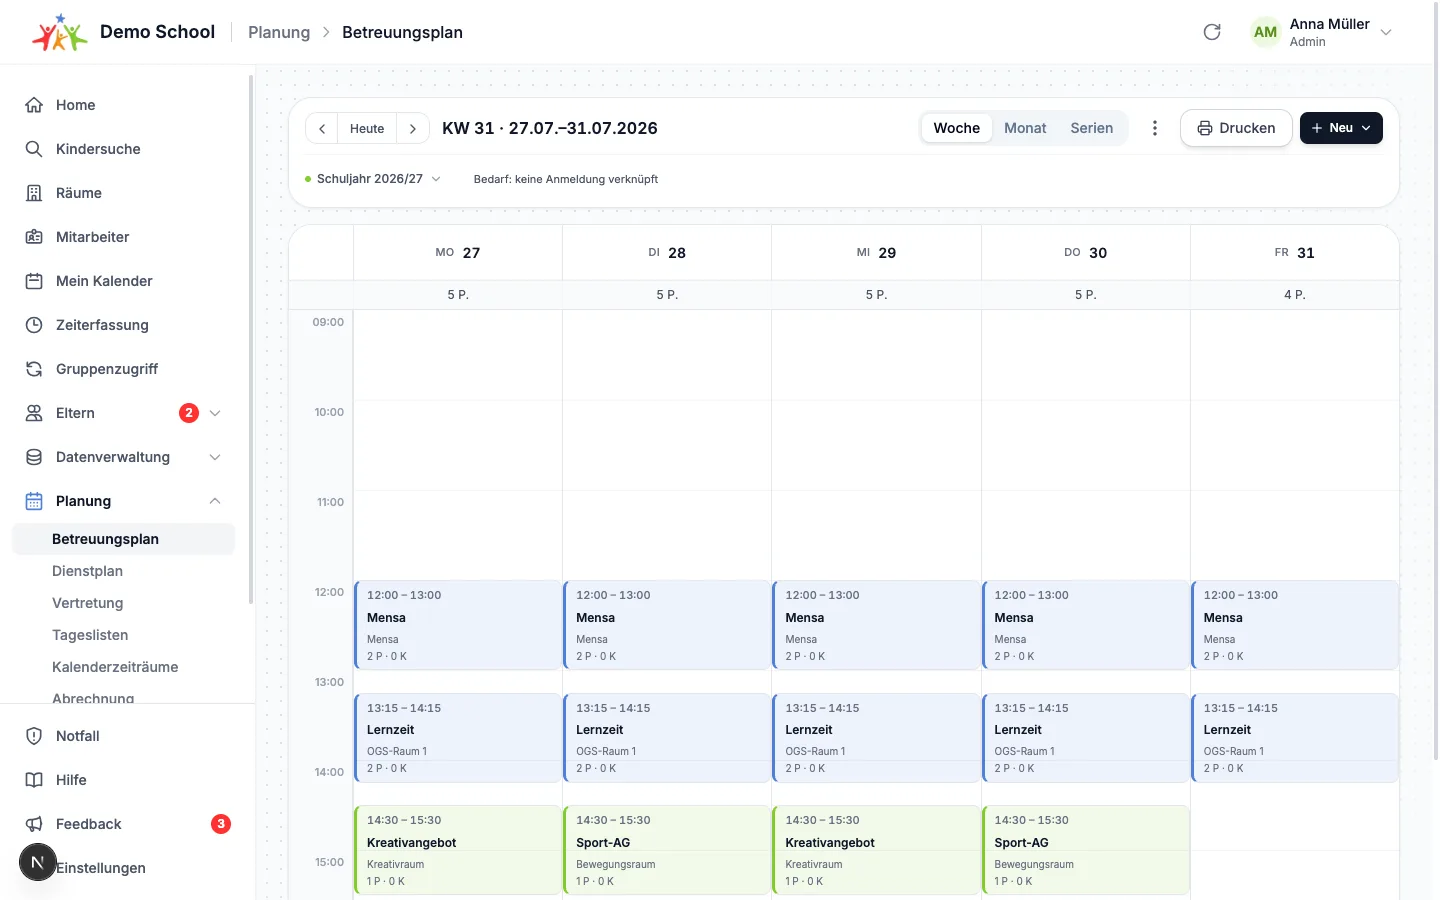
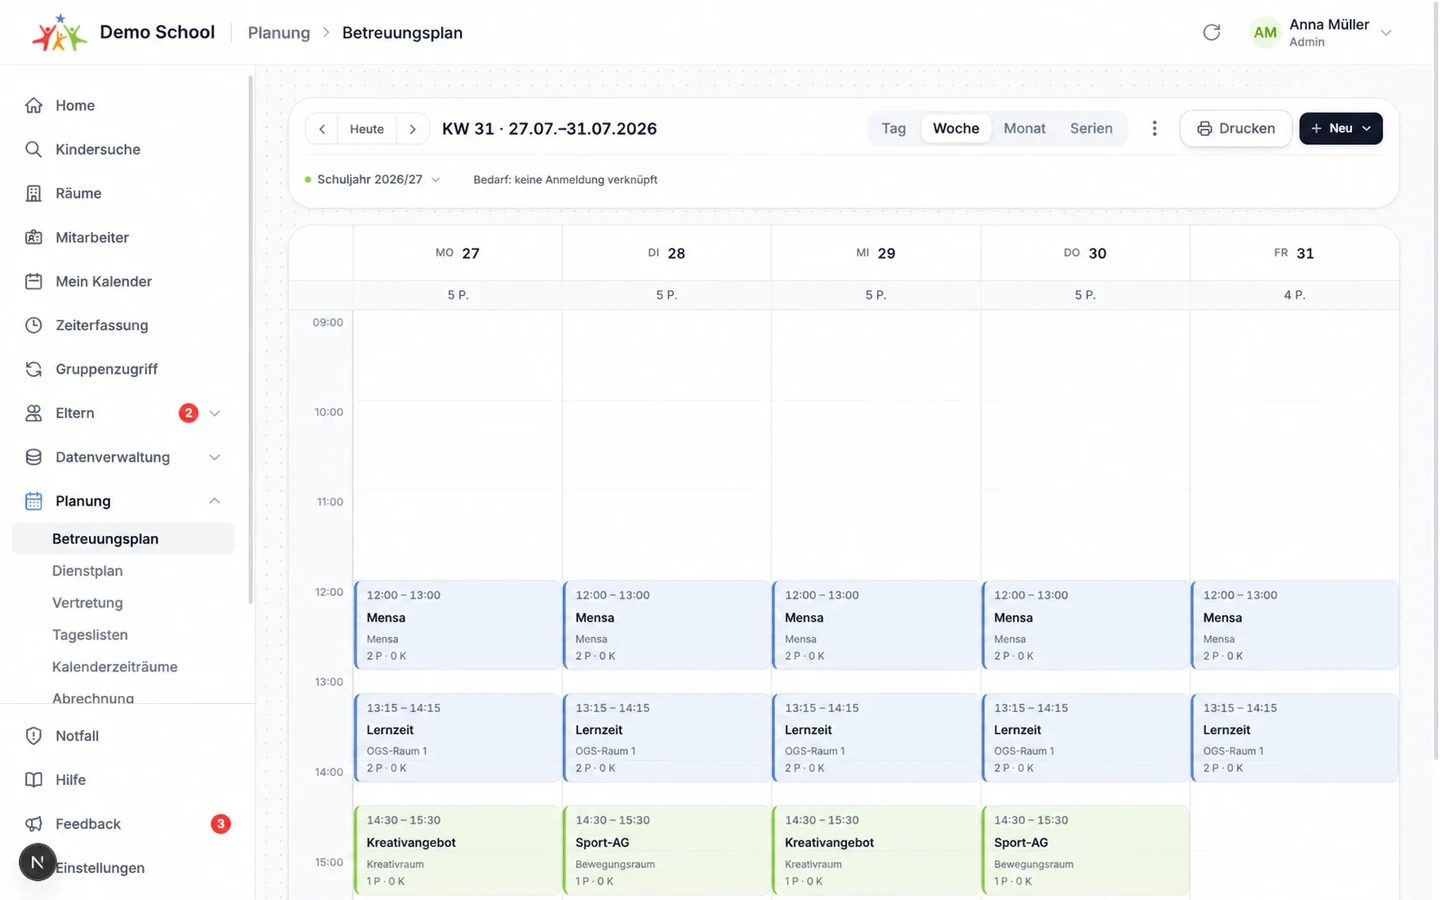
fix(betreuungsplan): keep calendar tab in sync

diff --git a/frontend/src/components/timetable/betreuungsplan-view.test.tsx b/frontend/src/components/timetable/betreuungsplan-view.test.tsx
@@ -280,12 +280,14 @@ vi.mock("~/components/timetable/weekly-calendar-grid", () => ({
     onInstanceClick,
     onSlotClick,
     gapInstanceIds,
+    emptyState,
   }: {
     weekDays: Date[];
     instances: Array<{ id: string; conflictWarnings: unknown[] }>;
     onInstanceClick: (instance: { id: string } | null) => void;
     onSlotClick?: (dateISO: string, hour: number) => void;
     gapInstanceIds?: ReadonlySet<string>;
+    emptyState?: { title: string; description: string };
   }) => (
     <div>
       <span data-testid="grid-week-days">{weekDays.length}</span>
@@ -298,6 +300,12 @@ vi.mock("~/components/timetable/weekly-calendar-grid", () => ({
           0,
         )}
       </span>
+      {emptyState && (
+        <div data-testid="grid-empty-state">
+          <span>{emptyState.title}</span>
+          <span>{emptyState.description}</span>
+        </div>
+      )}
       <button
         type="button"
         onClick={() => onInstanceClick(instances[0] ?? null)}
@@ -671,6 +679,7 @@ function setupSWR({
   phasesState = "ready" as "ready" | "loading" | "error",
   closingDaysLoading = false,
   conflictAcks = [] as string[],
+  instances = [instance],
 }: {
   periods?: Array<typeof period>;
   templates?: TimetableTemplate[];
@@ -684,6 +693,7 @@ function setupSWR({
   phasesState?: "ready" | "loading" | "error";
   closingDaysLoading?: boolean;
   conflictAcks?: string[];
+  instances?: (typeof instance)[];
 } = {}) {
   mockUseSWRAuth.mockImplementation((key: string | null) => {
     if (key === null) return {};
@@ -744,7 +754,7 @@ function setupSWR({
     }
     if (key.startsWith("timetable-")) {
       return {
-        data: { from: "2026-05-04", to: "2026-05-10", instances: [instance] },
+        data: { from: "2026-05-04", to: "2026-05-10", instances },
         isLoading: false,
       };
     }
@@ -1072,6 +1082,30 @@ describe("BetreuungsplanView", () => {
 
     expect(screen.getByTestId("grid-week-days")).toHaveTextContent("1");
     expect(screen.getByText("Mittwoch, 06.05.2026")).toBeVisible();
+    expect(screen.getByTestId("conflicts-period")).toHaveTextContent(
+      "an diesem Tag",
+    );
+  });
+
+  it("formuliert die leeren Tageszustände für Planende in der Sie-Form", () => {
+    setUrl("view=tag&d=2026-05-06");
+    setupSWR({ instances: [] });
+    const { unmount } = render(<BetreuungsplanView />);
+
+    expect(screen.getByTestId("grid-empty-state")).toHaveTextContent(
+      "Planen Sie Angebote als Regeltermin oder legen Sie einen einzelnen Termin an.",
+    );
+    unmount();
+
+    setupSWR({
+      instances: [],
+      periods: [{ ...period, endDate: "2026-05-05" }],
+    });
+    render(<BetreuungsplanView />);
+
+    expect(screen.getByTestId("grid-empty-state")).toHaveTextContent(
+      "Legen Sie zuerst einen aktiven Planungszeitraum an.",
+    );
   });
 
   it("navigiert in der Tagesansicht von Schultag zu Schultag", () => {

diff --git a/frontend/src/app/[tenant]/(protected)/calendar/page.tsx b/frontend/src/app/[tenant]/(protected)/calendar/page.tsx
@@ -1,6 +1,6 @@
 "use client";
 
-import { Suspense, useMemo, useState } from "react";
+import { Suspense, useCallback, useEffect, useMemo, useState } from "react";
 import { useSearchParams } from "next/navigation";
 import type { FormEvent } from "react";
 import { Trash2 } from "lucide-react";
@@ -299,6 +299,8 @@ function hasSchoolPlanParams(params: URLSearchParams | null): boolean {
   return ["d", "view", "block"].some((key) => params?.has(key) === true);
 }
 
+type CalendarTab = "meine" | "schule";
+
 function StaffCalendarPageInner() {
   const searchParams = useSearchParams();
   const toast = useToast();
@@ -309,6 +311,34 @@ function StaffCalendarPageInner() {
   // Admins behalten den vollwertigen Planungsbereich in der Sidebar.
   const showSchoolPlanTab =
     !isAdmin(session) && hasPermission(session, "schedules:read");
+  const schoolPlanSelected = hasSchoolPlanParams(searchParams);
+  const [activeTab, setActiveTab] = useState<CalendarTab>(() =>
+    schoolPlanSelected ? "schule" : "meine",
+  );
+
+  // Deeplinks and browser navigation change the query without remounting this
+  // page. Keep the visible tab aligned with the URL in both directions.
+  useEffect(() => {
+    setActiveTab(schoolPlanSelected ? "schule" : "meine");
+  }, [schoolPlanSelected]);
+
+  const handleCalendarTabChange = useCallback(
+    (value: string) => {
+      const nextTab = value as CalendarTab;
+      if (nextTab === "meine") {
+        const nextParams = new URLSearchParams(searchParams?.toString());
+        for (const key of ["d", "view", "block"]) nextParams.delete(key);
+        const query = nextParams.toString();
+        window.history.replaceState(
+          null,
+          "",
+          query ? `?${query}` : window.location.pathname,
+        );
+      }
+      setActiveTab(nextTab);
+    },
+    [searchParams],
+  );
   // Focal date defaults to today; the calendar component derives the week
   // range for week view, so today shows the current week / month / day
   // correctly (not the start of the week or the wrong month at boundaries).
@@ -687,11 +717,14 @@ function StaffCalendarPageInner() {
   return (
     <div className="w-full">
       {showSchoolPlanTab ? (
-        <Tabs
-          defaultValue={hasSchoolPlanParams(searchParams) ? "schule" : "meine"}
-        >
+        <Tabs value={activeTab} onValueChange={handleCalendarTabChange}>
           <TabsList variant="line" className="mb-4">
-            <TabsTrigger value="meine">Meine Termine</TabsTrigger>
+            <TabsTrigger
+              value="meine"
+              onClick={() => handleCalendarTabChange("meine")}
+            >
+              Meine Termine
+            </TabsTrigger>
             <TabsTrigger value="schule">Betreuungsplan</TabsTrigger>
           </TabsList>
           <TabsContent value="meine">{personalCalendar}</TabsContent>

diff --git a/frontend/src/app/[tenant]/(protected)/calendar/page.test.tsx b/frontend/src/app/[tenant]/(protected)/calendar/page.test.tsx
@@ -371,6 +371,58 @@ describe("StaffCalendarPage", () => {
     );
   });
 
+  it("follows Plan-Parameter after client-side navigation", async () => {
+    mockUseSession.mockReturnValue({
+      data: { user: { permissions: ["calendar:own", "schedules:read"] } },
+      status: "authenticated",
+    });
+    const { rerender } = render(<StaffCalendarPage />);
+
+    mockUseSearchParams.mockReturnValue(
+      new URLSearchParams("view=tag&d=2026-08-24"),
+    );
+    rerender(<StaffCalendarPage />);
+
+    await waitFor(() =>
+      expect(
+        screen.getByRole("tab", { name: "Betreuungsplan" }),
+      ).toHaveAttribute("aria-selected", "true"),
+    );
+
+    mockUseSearchParams.mockReturnValue(null);
+    rerender(<StaffCalendarPage />);
+
+    await waitFor(() =>
+      expect(
+        screen.getByRole("tab", { name: "Meine Termine" }),
+      ).toHaveAttribute("aria-selected", "true"),
+    );
+  });
+
+  it("clears Plan-Parameter when switching to Meine Termine", () => {
+    mockUseSession.mockReturnValue({
+      data: { user: { permissions: ["calendar:own", "schedules:read"] } },
+      status: "authenticated",
+    });
+    window.history.replaceState(null, "", "?view=tag&d=2026-08-24");
+    mockUseSearchParams.mockImplementation(
+      () => new URLSearchParams(window.location.search),
+    );
+
+    render(<StaffCalendarPage />);
+    expect(screen.getByRole("tab", { name: "Betreuungsplan" })).toHaveAttribute(
+      "aria-selected",
+      "true",
+    );
+    fireEvent.click(screen.getByRole("tab", { name: "Meine Termine" }));
+
+    expect(window.location.search).toBe("");
+    expect(screen.getByRole("tab", { name: "Meine Termine" })).toHaveAttribute(
+      "aria-selected",
+      "true",
+    );
+  });
+
   it("shows no tabs for admins", () => {
     mockUseSession.mockReturnValue({
       data: {

diff --git a/frontend/src/components/timetable/betreuungsplan-view.tsx b/frontend/src/components/timetable/betreuungsplan-view.tsx
@@ -1486,7 +1486,13 @@ function TimetablesContent() {
             <ConflictWarningsBanner
               openConflicts={openConflicts}
               hiddenConflicts={hiddenConflicts}
-              periodLabel={view === "month" ? "in diesem Monat" : "diese Woche"}
+              periodLabel={
+                view === "month"
+                  ? "in diesem Monat"
+                  : view === "day"
+                    ? "an diesem Tag"
+                    : "diese Woche"
+              }
               onHide={handleHideConflict}
               onHideAll={handleHideAllConflicts}
               onUnhide={handleUnhideConflict}
@@ -1557,8 +1563,8 @@ function TimetablesContent() {
                               // — stattdessen, wer den Tag plant.
                               canManageSchedules
                               ? dayHasPeriodCoverage
-                                ? "Plane Angebote als Regeltermin oder lege einen einzelnen Termin an."
-                                : "Lege zuerst einen aktiven Planungszeitraum an."
+                                ? "Planen Sie Angebote als Regeltermin oder legen Sie einen einzelnen Termin an."
+                                : "Legen Sie zuerst einen aktiven Planungszeitraum an."
                               : "Geplant wird von den Admins Ihrer Schule.",
                         }
                       : undefined

diff --git a/frontend/src/components/help/guide-data.ts b/frontend/src/components/help/guide-data.ts
@@ -1285,7 +1285,7 @@ export const appChapters: readonly GuideChapter[] = [
           tone: "blue",
         },
         screenshot:
-          "Wochenansicht des Betreuungsplans mit Kopfzeile (Ansichten Woche/Monat/Serien, Zeitraum-Chip, Bedarfs-Chip, Lücken-Chip) und geplanten Terminen.",
+          "Wochenansicht des Betreuungsplans mit Kopfzeile (Ansichten Tag/Woche/Monat/Serien, Zeitraum-Chip, Bedarfs-Chip, Lücken-Chip) und geplanten Terminen.",
         image: "/help/screens/stundenplan.webp",
       },
       {
